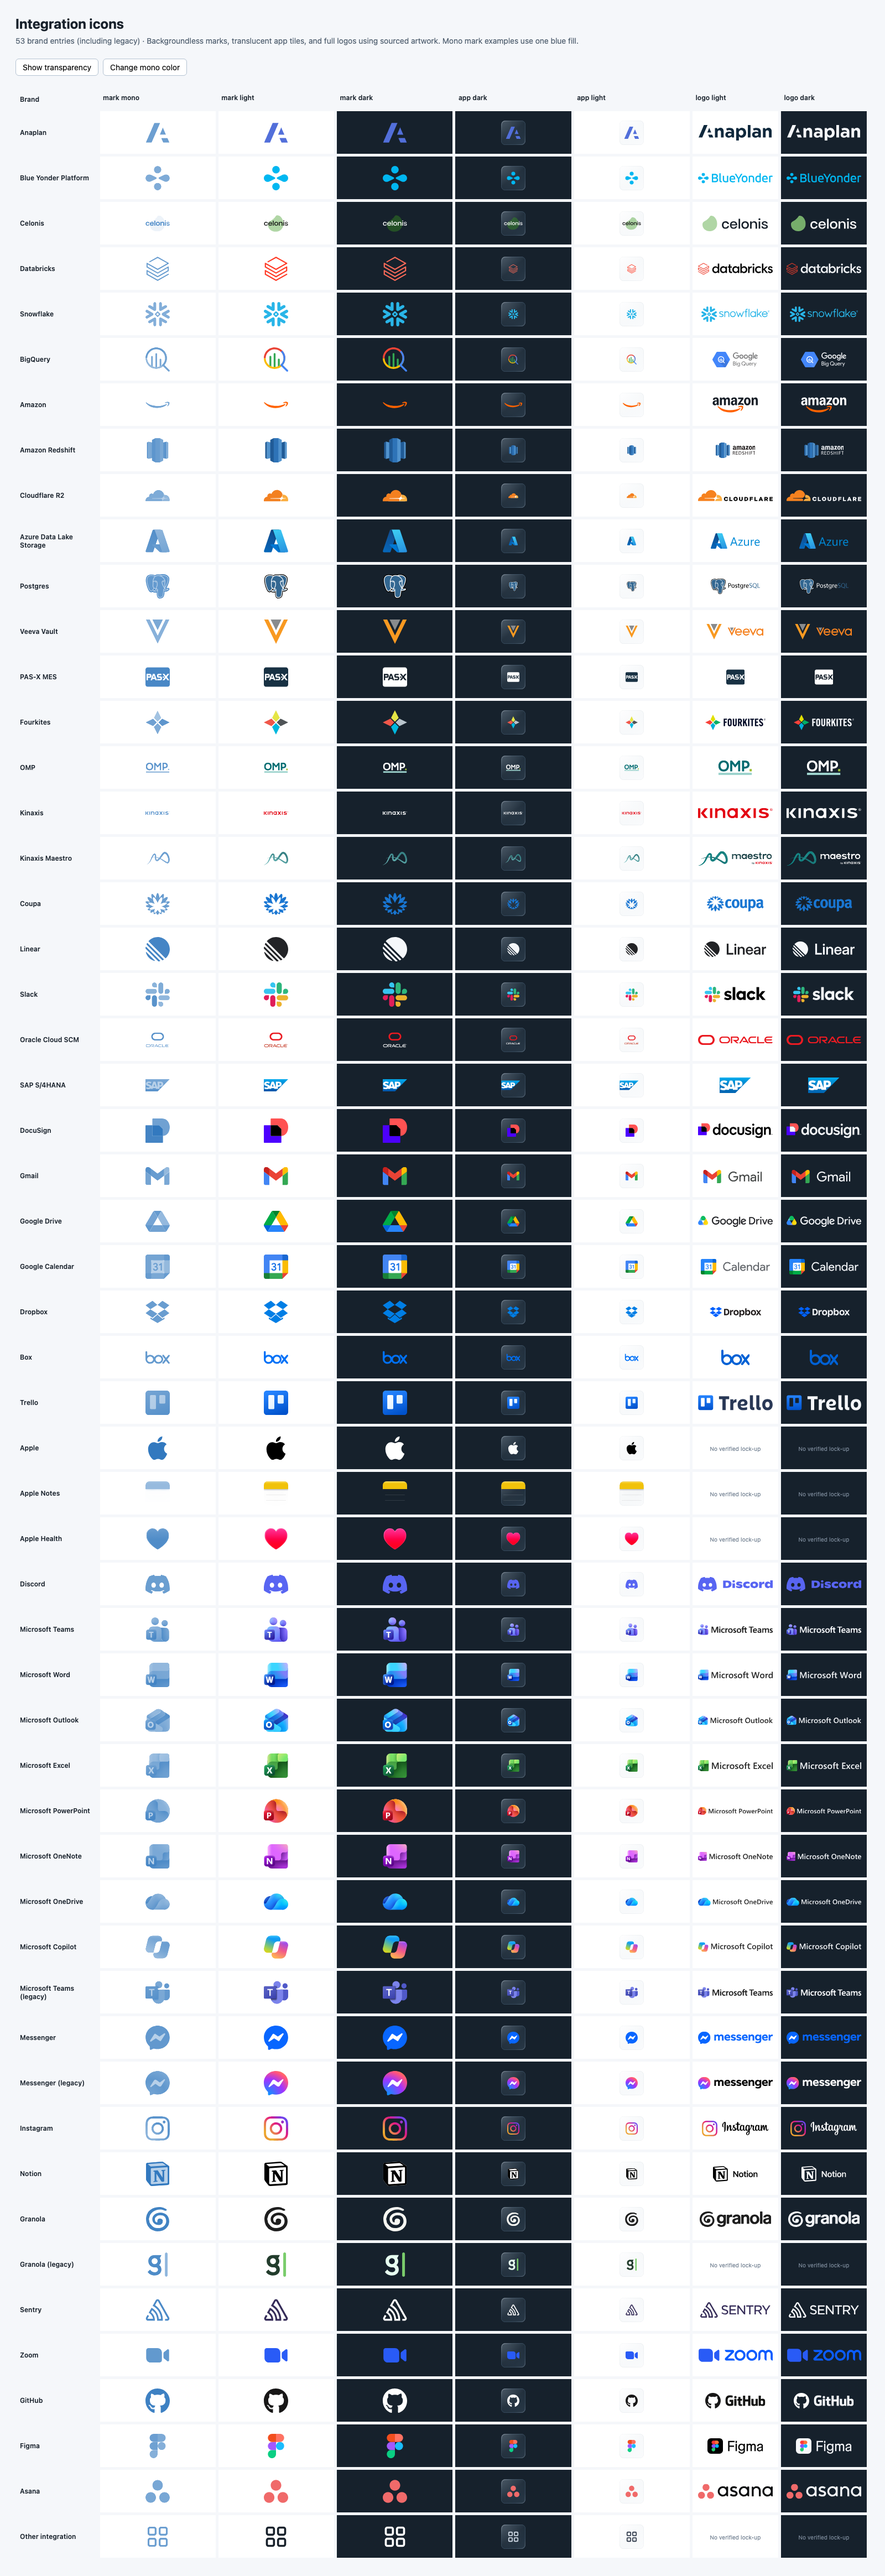
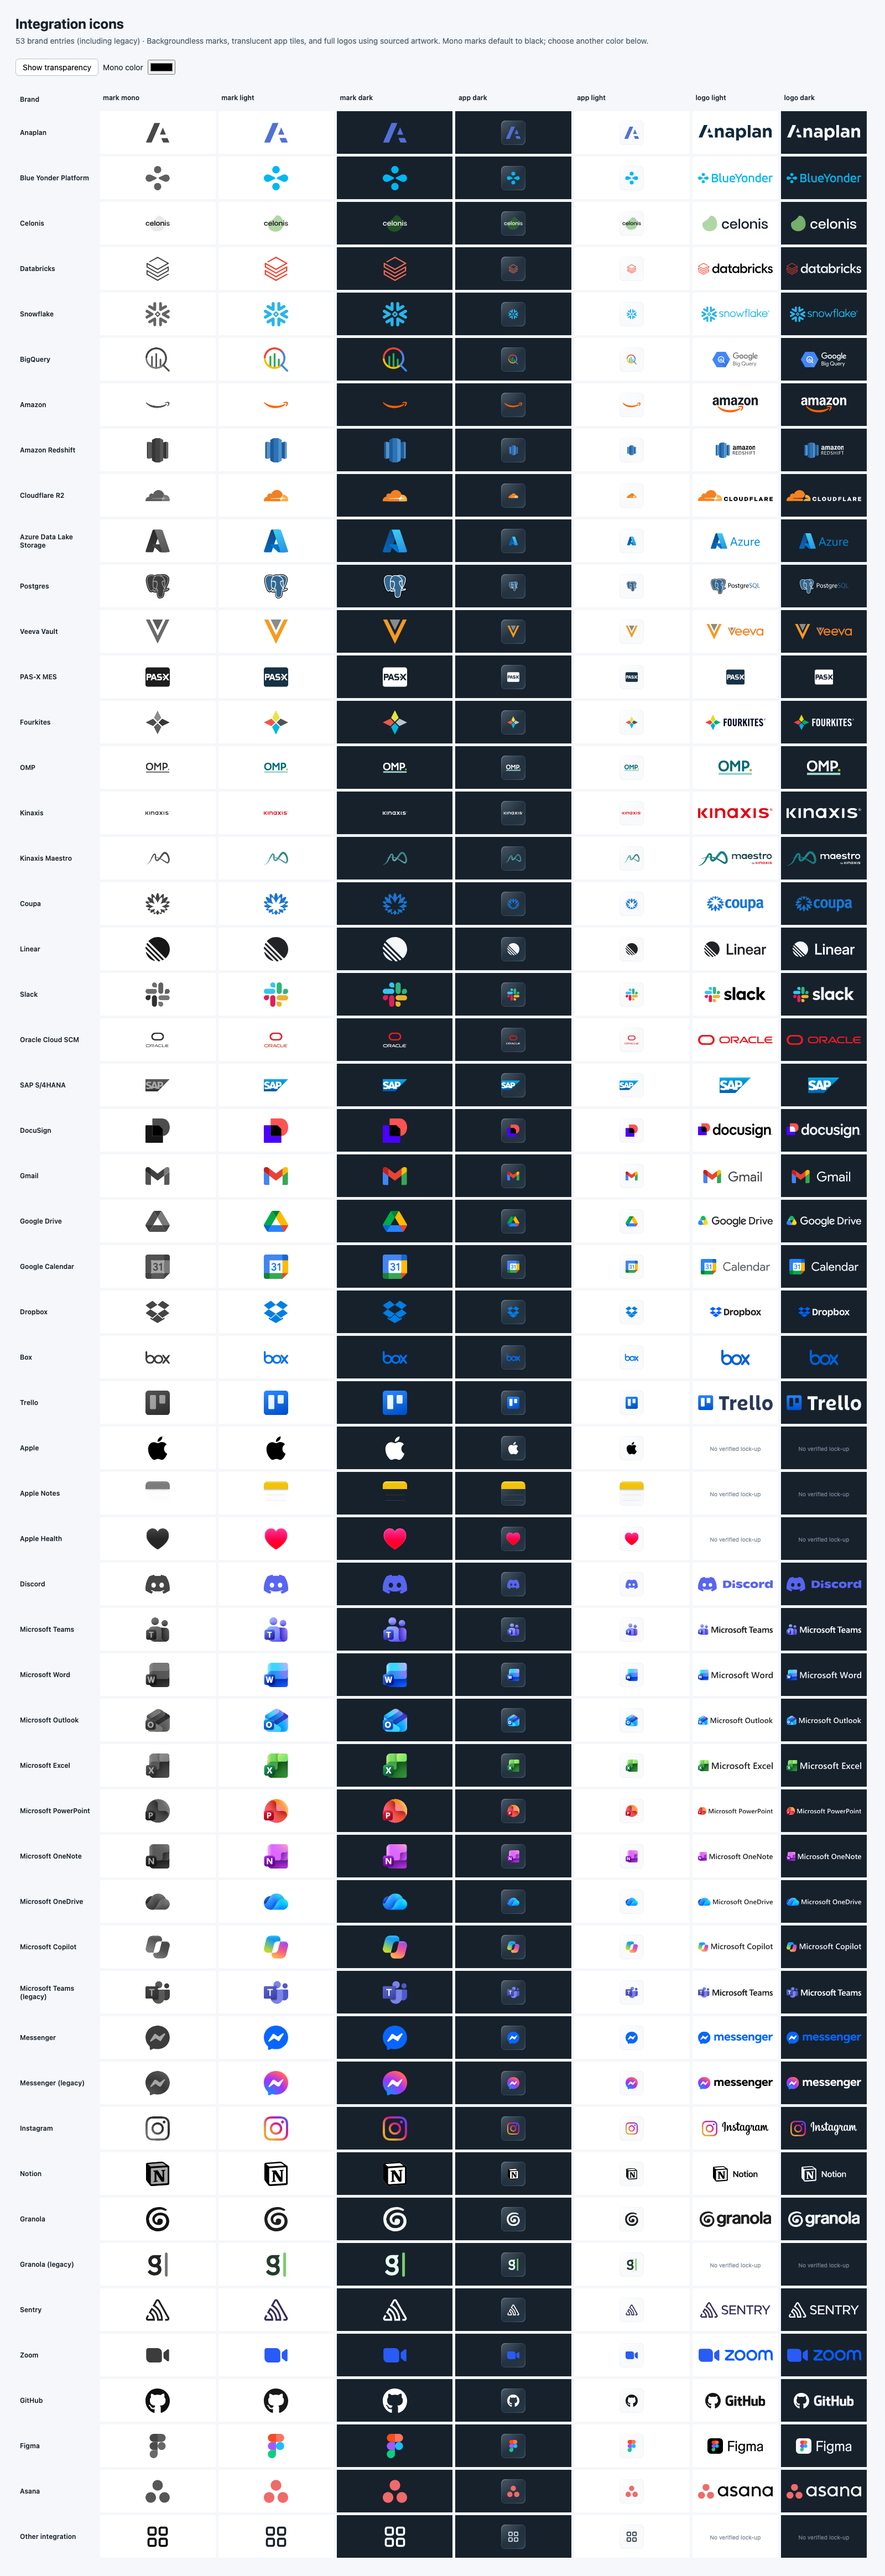
Default mono previews to black with a color picker

Changed region(s): [[0.1562, 0.3425, 0.1875, 0.9963], [0.1562, 0.0623, 0.1875, 0.2802]]

diff --git a/libs/@hashintel/ds-icons/scripts/preview-integrations.ts b/libs/@hashintel/ds-icons/scripts/preview-integrations.ts
@@ -19,7 +19,7 @@ const rows = integrationIconCatalog.map((icon) => {
             name: icon.name,
             variant,
             size: variant.startsWith("logo") ? 28 : 44,
-            color: variant.endsWith("mono") ? "#3279BF" : undefined,
+            color: variant.endsWith("mono") ? "#000000" : undefined,
           }),
           { identifierPrefix: `${icon.name}-${variant}-` },
         )
@@ -31,6 +31,6 @@ const rows = integrationIconCatalog.map((icon) => {
 
 const html = `<!doctype html><html lang="en"><head><meta charset="utf-8"><meta name="viewport" content="width=device-width,initial-scale=1"><title>HASH integration icons</title><style>
 *{box-sizing:border-box}body{font:14px system-ui;margin:28px;color:#18212b;background:#f5f7fa}h1{font-size:25px;margin:0 0 8px}p{color:#526171;margin:0 0 24px}table{border-collapse:collapse;width:100%;table-layout:fixed}thead{position:sticky;top:0;z-index:1;background:#f5f7fa}th{text-align:left;font-size:12px;padding:12px 8px;font-weight:600}thead th{vertical-align:bottom}td{height:82px;text-align:center;border:5px solid #f5f7fa;padding:10px}td svg{max-width:100%;vertical-align:middle}td.light{background:#fff}td.dark{background:#16212c;color:#fff}.missing{font-size:10px;color:#788696}th:first-child{width:150px}thead th:nth-last-child(-n+2){width:160px}button{font:inherit;border:1px solid #b4c3d2;background:white;border-radius:6px;padding:6px 12px;cursor:pointer;margin:0 8px 20px 0}.checker td{background-image:conic-gradient(#8293a519 25%,transparent 0 50%,#8293a519 0 75%,transparent 0);background-size:16px 16px}
-</style></head><body><h1>Integration icons</h1><p>${integrationIconCatalog.filter((icon) => icon.name !== "genericApp").length} brand entries (including legacy) · Backgroundless marks, translucent app tiles, and full logos using sourced artwork. Mono mark examples use one blue fill.</p><button onclick="document.body.classList.toggle('checker')">Show transparency</button><button onclick="document.querySelectorAll('[flood-color]').forEach(el=>el.closest('svg').style.color=el.closest('svg').style.color==='rgb(139, 97, 215)'?'#3279BF':'#8B61D7')">Change mono color</button><table><thead><tr><th>Brand</th>${integrationIconVariants.map((variant) => `<th>${variant.replaceAll("-", " ")}</th>`).join("")}</tr></thead><tbody>${rows.join("")}</tbody></table></body></html>`;
+</style></head><body><h1>Integration icons</h1><p>${integrationIconCatalog.filter((icon) => icon.name !== "genericApp").length} brand entries (including legacy) · Backgroundless marks, translucent app tiles, and full logos using sourced artwork. Mono marks default to black; choose another color below.</p><button onclick="document.body.classList.toggle('checker')">Show transparency</button><label style="display:inline-flex;align-items:center;gap:8px;margin-bottom:20px">Mono color <input type="color" value="#000000" oninput="document.querySelectorAll('[flood-color]').forEach(el=>el.closest('svg').style.color=this.value)" aria-label="Mono color"></label><table><thead><tr><th>Brand</th>${integrationIconVariants.map((variant) => `<th>${variant.replaceAll("-", " ")}</th>`).join("")}</tr></thead><tbody>${rows.join("")}</tbody></table></body></html>`;
 
 await writeFile(process.argv[2] ?? "integration-icons.html", html);
